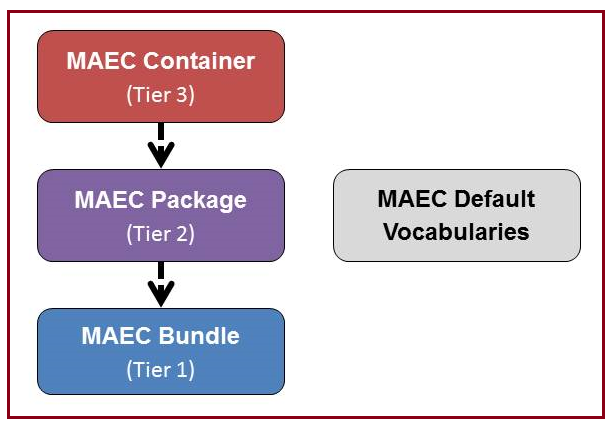
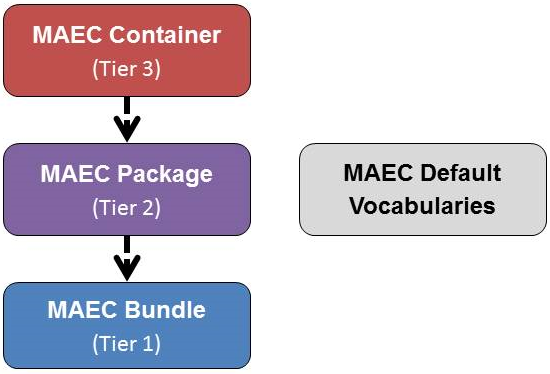
formatting changes

Changed region(s): [[0.0, 0.0, 1.0, 1.0]]

diff --git a/documentation/data_model_overview/index.md b/documentation/data_model_overview/index.md
@@ -11,7 +11,7 @@ The MAEC Language is defined by three data models, each of which is implemented 
 As illustrated, “MAEC Bundle” is the (lowest) Tier 1 data model; “MAEC Package” is the (middle) Tier 2 data model; and “MAEC Container” is the (highest) Tier 3 data model.  All three data models offer a stand-alone output format, so a lower level model can be used without the higher tier data model (although each model level requires all lower tiers).  This three-tiered structure provides flexibility in the type and amount of information that can be shared.
 </td>
 <td>
-<img src="datamodels.png" alt="MAEC data models" height="235" width="350"/>
+<img src="datamodels.png" alt="MAEC data models" class="aside-text" height="237" width="350"/>
 </td>
 </tr>
 </table>  
